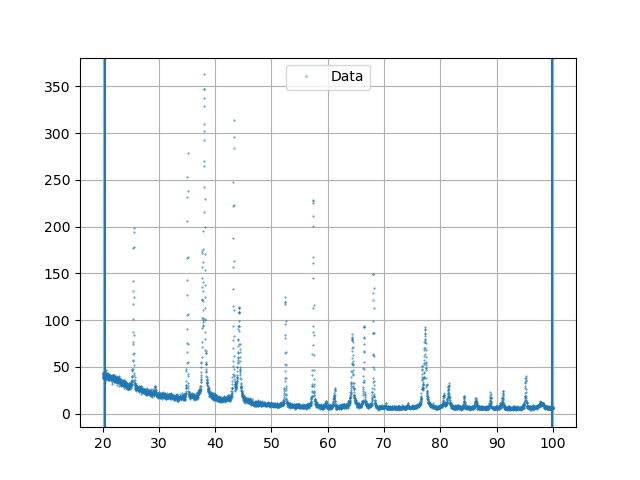
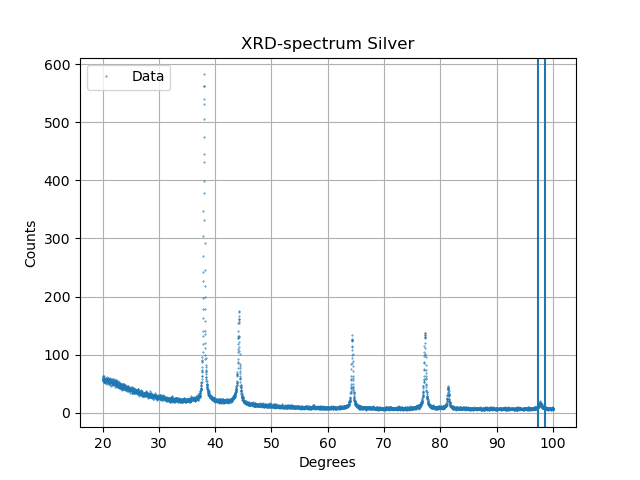
update

diff --git a/Spectrum_realm/Editor.py b/Spectrum_realm/Editor.py
@@ -1,29 +1,51 @@
 import numpy
 import tkinter as tk
 from tkinter import ttk
-from tkinter import filedialog, messagebox
+from tkinter import filedialog, messagebox, simpledialog
 import Parser
 from Gaussian import Fitting
 from PIL import Image, ImageTk
 import os
+import time
 import functools
+global Parsers
 
-def Find():
+Parsers = {
+    "Standard Parser, (.xyd, csv)" : Parser.Parser,
+    "None" : None
+}
+
+def Find(key = "Standard Parser, (.xyd, csv)"):
     global Data
     Path = filedialog.askopenfilename()
     try:
-        Data = Fitting(Parser.Parser(Path))
-    except:
+        #Data = Fitting(Parser.Parser(Path))
+        Data = Fitting(Parsers[key](Path))
+    except Exception as e:
         messagebox.showwarning("Error", message="Loading data failed.")
+        raise e
     HandlerProgram.Data = Data
     HandlerProgram.View()
 
 
+
 def Progress(func):
     """A wrapper function that creates a progressbar during the call of the function, and then removes it."""
-    def wrapper():
-        pass
-    pass
+    def wrapper(*args, **kwargs):
+        bar = ttk.Progressbar(master = root, length = 100, mode = 'indeterminate')
+        bar.grid(column = 1, row = 11)
+        bar.start()
+        time.sleep(2)
+        result = func(*args, **kwargs)
+        try:
+            time.sleep(2)
+            bar.stop()
+            bar.destroy()
+        except:
+            pass
+        return result
+    return wrapper
+
 class Handler:
     Data = None
     def __init__(self, root):
@@ -31,15 +53,23 @@ class Handler:
         self.root.geometry("1250x600")
         self.root.title("Spectrum Realm")
         Menubar = tk.Menu(root)
+        self.Parser = "Standard Parser, (.xyd, csv)"
         Filemenu = tk.Menu(Menubar)
-        Filemenu.add_command(label = "Load file", command = Find)
+        Filemenu.add_command(label = "Parser : "+self.Parser, command = lambda : ChooseParser(self.root))
+        Filemenu.add_command(label = "Load file", command = lambda: Find(self.Parser))
         Filemenu.add_command(label = "Manual fit", command = self.Manual)
+        Filemenu.add_command(label = "Save figure", command = lambda : SaveFigure(self.root, self.Data))
         Menubar.add_cascade(label = "File", menu = Filemenu)
         BackgroundMenu = tk.Menu(Menubar)
         BackgroundMenu.add_checkbutton(label = "No Background")
         BackgroundMenu.add_checkbutton(label = "Exponential Background", command = self.Exp)
         BackgroundMenu.add_checkbutton(label = "Linear background", command = self.Lin)
         Menubar.add_cascade(label = "Background", menu = BackgroundMenu)
+        Formatmenu = tk.Menu(Filemenu)
+        Formatmenu.add_command(label = "Format", command = lambda: FormatHandler(self.root, self.Data))
+        self.XrayTrue = tk.StringVar()
+        Formatmenu.add_checkbutton(label = "Xray diffract", variable = self.XrayTrue, command = lambda : 0)
+        Menubar.add_cascade(label = "Format", menu = Formatmenu)
         self.root.config(menu = Menubar)
 
 
@@ -51,7 +81,7 @@ class Handler:
         self.Boundaryval = tk.StringVar()
         self.Boundaryval.set(25)
         Label2 = ttk.Label(self.root, text = "Number of points to include").grid(column = 1, row = 5)
-        self.Boundary = ttk.Spinbox(self.root, from_ = 25, to = 100, textvariable = self.Boundaryval,
+        self.Boundary = ttk.Spinbox(self.root, from_ = 15, to = 100, textvariable = self.Boundaryval,
             command = self.Update).grid(column = 1, row = 7)
         Btn1 = ttk.Button(root, text = "Apply", command = self.Update).grid(column = 1, row = 9)
 
@@ -68,13 +98,12 @@ class Handler:
         except Exception as e:
             raise e
 
-
+    #@Progress
     def Update(self):
         if self.Data == None:
             messagebox.showwarning("Error", f"Needs a file")
         else:
             try:
-                self.progressbar.grid(column = 1, row = 11)
                 self.Data.NumberOfFits = int(self.NumberOfGaussiansval.get())
                 self.Data.Boundary = int(self.Boundaryval.get())
                 self.Data.AutoDetectPeaks()
@@ -84,6 +113,21 @@ class Handler:
                 scrollb.grid(column = 4, row=2, rowspan = 9, sticky='nsew')
                 text1['yscrollcommand'] = scrollb.set
                 text1.grid(column = 3, row=2, rowspan = 9)
+                try:
+                    if int(self.XrayTrue.get()) == 1:
+                        try:
+                            del self.Data.Miller
+                        except:
+                            pass
+                        val = simpledialog.askfloat(title = "Assuming cubic structure", prompt = "Value in nm", initialvalue = 1)
+                        self.Data.Compute(a = val)
+                    else:
+                        try:
+                            del self.Data.Miller
+                        except:
+                            pass
+                except:
+                    pass
                 text1.insert(tk.INSERT, self.Data.Data())
                 self.View()
             except Exception as e:
@@ -148,6 +192,77 @@ class ManualFits():
             self.Data.Manual(index, boundary)
         except Exception as e:
             raise e
+
+class FormatHandler(tk.Toplevel):
+    def __init__(self, master, Data = None):
+        super().__init__(master = master)
+        self.master = master
+        if Data == None:
+            self.destroy()
+            messagebox.showerror("Error", "Needs data to aquire")
+        else:
+            self.Data = Data
+            xlabel = ttk.Label(master = self, text = "x-label").grid(column = 1, row = 1)
+            ylabel = ttk.Label(master = self, text = "y-label").grid(column = 1, row = 2)
+            title = ttk.Label(master = self, text = "Title").grid(column = 1, row = 3)
+            self.XEntry = ttk.Entry(master = self)
+            self.XEntry.grid(column = 2, row = 1)
+            self.YEntry = ttk.Entry(master = self)
+            self.YEntry.grid(column = 2, row = 2)
+            self.TEntry = ttk.Entry(master =  self)
+            self.TEntry.grid(column = 2, row = 3)
+            btn = tk.Button(master = self, text = "Apply", command = self.Apply2).grid(column = 1, columnspan=2, row = 4)
+
+    def Apply2(self):
+        try:
+            self.Data.xlabel = self.XEntry.get()
+            self.Data.ylabel = self.YEntry.get()
+            self.Data.Title = self.TEntry.get()
+            HandlerProgram.View()
+            self.destroy()
+        except Exception as e:
+            raise e
+
+class SaveFigure(tk.Toplevel):
+    def __init__(self, master, Data):
+        super().__init__(master = master)
+        self.Data = Data
+        lbl = ttk.Label(master = self, text = "Name of spectrum").grid(column = 1, row = 1)
+        self.master = master
+        self.Name = ttk.Entry(master = self)
+        self.Name.grid(column = 1, row = 2)
+        btn = ttk.Button(master = self, text = "Save", command = self.save).grid(column =2, row = 1, rowspan = 2)
+        if Data == None:
+            self.destroy()
+            messagebox.showerror("Error", "Needs a figure to save")
+
+    def save(self):
+        Path = Data.PathCurrent
+        Path2 = Data.PathManual
+        SavePath = filedialog.askdirectory()
+        try:
+            try:
+                os.rename(Path, os.path.join(SavePath, self.Name.get()))
+            except:
+                messagebox.showerror("Error", "Could not save with that name")
+            try:
+                os.remove(Path)
+            except:
+                pass
+            try:
+                os.remove(Path2)
+            except:
+                pass
+            self.destroy()
+        except Exception as e:
+            raise e
+
+class ChooseParser(tk.Toplevel):
+    def __init__(self, master):
+        super().__init__(master = master)
+        self.master = master
+        for item in (Parsers.items()):
+            print(item)
 
 
 

diff --git a/Spectrum_realm/Gaussian.py b/Spectrum_realm/Gaussian.py
@@ -6,6 +6,7 @@ import os
 from scipy.optimize import curve_fit
 from PhysicsNum import RiemanSum
 import time
+import math
 
 class Fitting:
 
@@ -33,6 +34,8 @@ class Fitting:
         self.Area = []
         self.Boundary = 25
         self.PlotData()
+        self.PathCurrent = os.path.join(os.getcwd(), "Current.png")
+        self.PathManual = os.path.join(os.getcwd(), "Manual.png")
 
     def PlotData(self):
         plt.plot(self.x,self.y, '.', markersize=2)
@@ -75,9 +78,11 @@ class Fitting:
         del self.FitsMade
         del self.Error
         del self.Area
+        del self.FitsMadeVal
         self.Error = []
         self.Area = []
         self.FitsMade = []
+        self.FitsMadeVal = []
         XVal = self.x.copy()
         YVal = self.y.copy()
         gauss = lambda x, a, mu, sigma: a*np.exp(-(x - mu)**2/(2*sigma**2))
@@ -137,6 +142,9 @@ class Fitting:
                 self.Background,'-', label = "Background")
         plt.legend()
         plt.grid()
+        plt.xlabel(self.xlabel)
+        plt.ylabel(self.ylabel)
+        plt.title(self.Title)
         plt.savefig("Current.png")
         plt.clf()
 
@@ -153,4 +161,36 @@ class Fitting:
             text += f"Covarience {self.ManualError[i]} for manual peak {i+1}\n"
             text += f"Area = {self.ManualArea[i]}\n"
             text += f"Amplitude = {self.ManualFitsVal[i][0]}\nMu = {self.ManualFitsVal[i][1]}\nError = {self.ManualFitsVal[i][2]}\n\n"
+        try:
+            text += str(self.Miller)
+        except Exception as e:
+            print(e)
         return text
+
+    def Compute(self, a = 1, b = None, c = None, alpha = 1, Beta = 1, gamma = 0, Accurarcy = 0.01, wavelength = 1.54):
+        """Will compute if one says it's xray XRD-spectrum."""
+        Distance = []#Distance between planes
+        for i in range(len(self.FitsMadeVal)):
+            val = math.radians(self.FitsMadeVal[i][1]/2)
+            d = wavelength/(2*math.sin(val))
+            Distance.append([d, self.FitsMadeVal[i][1]])
+        for i in range(len(self.ManualFitsVal)):
+            val = math.radians(self.ManualFitsVal[i][1]/2)
+            d = wavelength/(2*math.sin(val))
+            Distnce.append([d, self.ManualFitsVal[i][1]])
+        Miller = {}
+        if b == None or c == None:
+            if b == None:
+                b = a
+            if c == None:
+                c = a
+            else:
+                b, c = a, a
+        for h in [0,1,2,3,4]:
+            for k in [0,1,2,3,4]:
+                for l in [0,1,2,3,4]:
+                    for i in range(len(Distance)):
+                        Difference = abs((1/Distance[i][0])**2 - ((h/a)**2 + (k/b)**2 + (l/c)**2))
+                        if Difference < Accurarcy:
+                            Miller[f'Peak at {Distance[i][1]}'] =  f"({h},{k},{l})"
+        self.Miller = Miller
